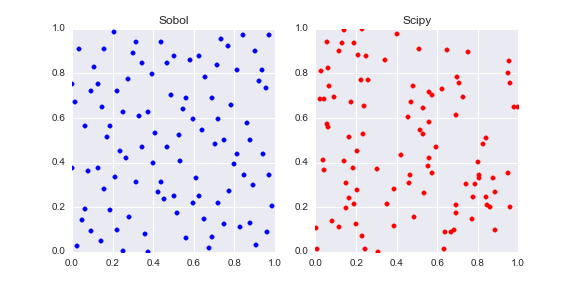
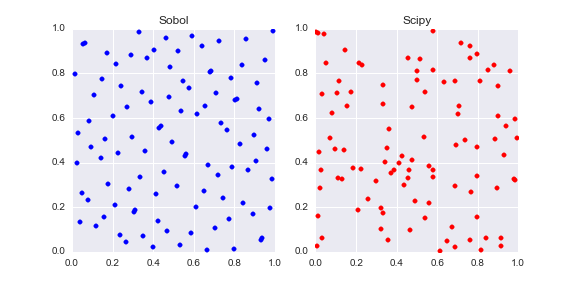
Turn on travis email notification

diff --git a/examples/example.py b/examples/example.py
@@ -14,7 +14,7 @@ def plot_normals():
     """Plot normal densities.
 
     """
-    size, skip = 100, 1000
+    size, skip = 100, 10
 
     unif = sobol_rvs(size=size, skip=skip)
     normals_sobol = norm.ppf(unif)
@@ -28,11 +28,12 @@ def plot_normals():
     plt.legend()
     plt.show()
 
+
 def plot_uniforms():
     """Plot uniform random numbers.
 
     """
-    size, skip = (2, 100), 1000
+    size, skip = (2, 100), 10
     unif_sobol = sobol_rvs(size=size, skip=skip)
     unif_scipy = uniform.rvs(size=size)
 
